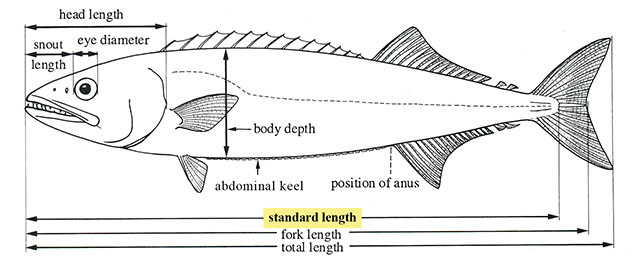
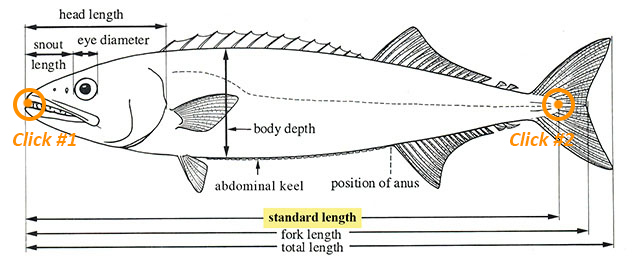
Modified and simplified instructions and example figures for clarity

diff --git a/scale_fish.php b/scale_fish.php
@@ -17,7 +17,7 @@
 	</button>
 
 	<button type="button" class="btn btn-info" data-toggle="modal" data-target="#schematicModal">
-	  <i class="far fa-eye"></i> Example SL Schematic
+	  <i class="far fa-eye"></i> Example SL Schematics
 	</button>
 
 	<button type="button" class="btn btn-danger" onClick="window.location.reload()">
@@ -36,9 +36,9 @@
 	      </div>
 	      <div class="modal-body">
 			(1) Use your mouse to click on the <em>tip of the snout</em>.<br />
-			(2) Make a second click at the <em>posterior end of the midlateral portion of the hypural plate</em>.<br /><br />
-			See <a href="instructions.php" target="_blank">instructions here</a> for a schematic outlining the <strong>Standard Length (SL)</strong> measurement.<br /><br />
-			<em>Once you have made both clicks, the fish image will automatically rescale to have a <strong>SL</strong> of 1000px. Click <mark><strong>Subsample Fish Pattern <i class="far fa-arrow-alt-circle-right"></i></strong></mark> to continue.</em>
+			(2) Make a second click at the <em>posterior end of the midlateral portion right before the caudal fin</em>.<br /><br />
+			<a href="instructions.php" target="_blank"><img src="assets/img/standard-length-diagram.jpg" width="100%" /></a><br /><br />
+			<em>Once you have made both clicks, the fish image will automatically rescale to have a <strong>SL</strong> of 1250px. Click <mark><strong>Subsample Fish Pattern <i class="far fa-arrow-alt-circle-right"></i></strong></mark> to continue.</em>
 	      </div>
 	      <div class="modal-footer">
 	        <button type="button" class="btn btn-secondary" data-dismiss="modal">Close</button>
@@ -52,13 +52,16 @@
 	  <div class="modal-dialog modal-dialog-centered" role="document">
 	    <div class="modal-content">
 	      <div class="modal-header">
-	        <h5 class="modal-title" id="schematicModalTitle"><i class="fas fa-eye"></i> Example SL Schematic</h5>
+	        <h5 class="modal-title" id="schematicModalTitle"><i class="fas fa-eye"></i> Example SL Schematics</h5>
 	        <button type="button" class="close" data-dismiss="modal" aria-label="Close">
 	          <span aria-hidden="true">&times;</span>
 	        </button>
 	      </div>
 	      <div class="modal-body">
-			<img src="assets/img/SL-Example.png" width="100%" height="100%" />
+			<img src="assets/img/SL-Example-1-wbox.png" width="100%" height="100%" style="padding-bottom: 10px" />
+			<img src="assets/img/SL-Example-2-wbox.png" width="100%" height="100%" style="padding-bottom: 10px" />
+			<img src="assets/img/SL-Example-3-wbox.png" width="100%" height="100%" style="padding-bottom: 10px" />
+			<img src="assets/img/SL-Example-4-wbox.png" width="100%" height="100%" style="padding-bottom: 10px" />
 	      </div>
 	      <div class="modal-footer">
 	        <button type="button" class="btn btn-secondary" data-dismiss="modal">Close</button>

diff --git a/fish_list.php b/fish_list.php
@@ -22,7 +22,16 @@
 ?>
 
 <!-- <h4>Welcome <?php echo $userEmail; ?>!</h4> -->
-<p class="lead">You have been assigned 25 fish to <strong>rescale</strong> &amp; <strong>subsample</strong>.<br />Below is the list. Please click each button to complete the process for each fish.<br />When you're finished with one fish, you will be returned to this list.<br />Green buttons represent completed fish. If a button is already green, it has been completed by someone else sometime between you starting today.</p>
+<p class="lead">Here are some fish to <strong>rescale</strong> &amp; <strong>subsample:</strong>
+    <ul>
+        <li>Please click each button to complete the process for each fish.</li>
+        <li>When you're finished with one fish, you will be returned to this list.</li>
+        <li>Green buttons represent completed fish.</li>
+        <li><em>Note: If a button is already green, it has been completed by someone else sometime between you starting today.</em></li>
+    </ul>
+    If you do not finish your assigned batch, the <strong>uncompleted fish</strong> will be recycled back for someone else to complete.<br />
+    <mark>If you have <strong>completed</strong> your assigned fish, click <a href="index.php">Reset Interface</a> and <strong>re-enter</strong> your <strong>email</strong> to start a new fish session.</mark>
+</p>
 
 <?php
     //path to directory to scan
@@ -79,7 +88,7 @@
         echo "<div class='progress' style='height: 35px; margin-top: 25px;'>";
             echo "<div class='progress-bar' role='progressbar' style='font-size: 16px; font-weight: bolder; width: $percentCompleted%;'>$percentCompleted %</div>";
         echo "</div>";
-        echo "<p class='lead'><em>Current progress...percentage of fishes scaled and cropped.</em></p>";
+        echo "<p class='lead'><em>Current progress...<strong>your percentage of fishes scaled and cropped</strong> for this current session.</em></p>";
         echo "<a href='index.php'><button type='button' class='btn btn-secondary'><i class='far fa-arrow-alt-circle-left'></i> Go Back</button></a><br /><br />";
 ?>
 

diff --git a/instructions.php b/instructions.php
@@ -3,12 +3,26 @@
 	include 'snippets/main.php';
 ?>
 
-	<h3>Instructions.</h3>
-	<p class="lead">Below is a schematic outlining the <strong>Standard Length (SL)</strong> measurement that we are using to rescale the fish (to have a SL of 1000px).</p>
+	<h3>Rescaling &amp; Subsampling Instructions.</h3>
+
+	<hr />
+	<h5>Rescaling</h5>
+	<p class="lead">Below is a schematic outlining the <strong>Standard Length (SL)</strong> measurement that we are using to rescale the fish (to have a SL of 1250px).</p>
 
 	<p></p>
 
 	<img src="assets/img/standard-length-diagram.jpg" width="100%" />
 	<p class="small"><em>FishBase Glossary</em></p>
 
+	<p></p>
+	<hr />
+	<h5>Subsampling</h5>
+	<p class="lead">To the best of your ability, place the square at mid body posterior to the pectoral fin while avoiding the pectoral fin.</p>
+	<img src="assets/img/SL-Example-1-wbox.png" width="100%" height="100%" style="padding-bottom: 10px" />
+	<img src="assets/img/SL-Example-2-wbox.png" width="100%" height="100%" style="padding-bottom: 10px" />
+	<img src="assets/img/SL-Example-3-wbox.png" width="100%" height="100%" style="padding-bottom: 10px" />
+	<img src="assets/img/SL-Example-4-wbox.png" width="100%" height="100%" style="padding-bottom: 10px" />
 
+<?php
+	include 'snippets/footer.php';
+?>

diff --git a/crop_fish.php b/crop_fish.php
@@ -13,9 +13,13 @@
 
 ?>
 
-	<p class="lead">You are currently cropping <span class="small"><strong><em><?php echo $current_image; ?></em></strong></span>
-		<br />
-		<em>New Scaled Dimensions: <mark><?php echo round($scaled_width); ?> x <?php echo round($scaled_height); ?></mark></em>
+	<div class="alert alert-warning" role="alert">
+		To the best of your ability, place the square at mid body posterior to the pectoral fin while avoiding the pectoral fin.
+		<br />Currently subsampling <strong><?php echo $current_image; ?></strong>
+	</div>
+	<p>
+		<em>New Scaled Dimensions: <mark><?php echo round($scaled_width); ?> x <?php echo round($scaled_height); ?></mark></em><br />Please view <a href="instructions.php" target="_blank">instructions</a> for guidance.
+		<div style="margin-bottom: 30px"></div>
 	</p>
 
 	<script>

diff --git a/snippets/main.php b/snippets/main.php
@@ -19,7 +19,7 @@
             			<a class="nav-link" href="index.php">Reset Interface <span class="sr-only">(current)</span></a>
           			</li>
                 <li class="nav-item">
-                  <a class="nav-link" href="instructions.php">Instructions</a>
+                  <a class="nav-link" href="instructions.php" target="_blank">Instructions</a>
                 </li>
     			  </ul>
     </nav>

diff --git a/index.php b/index.php
@@ -126,7 +126,7 @@
 	$completedFish = $tmpstorage;
 	$remainingFish = array_merge(array_diff($allFish, $completedFish), array_diff($completedFish, $allFish));
 
-	$selectedFish = array_slice($remainingFish, 0, 3);
+	$selectedFish = array_slice($remainingFish, 0, 10);
 
 
 	/*foreach (ListFiles('fish_input') as $key=>$file){
